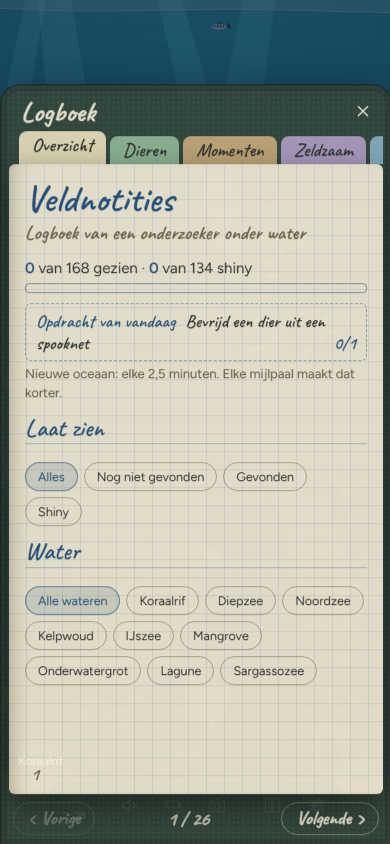
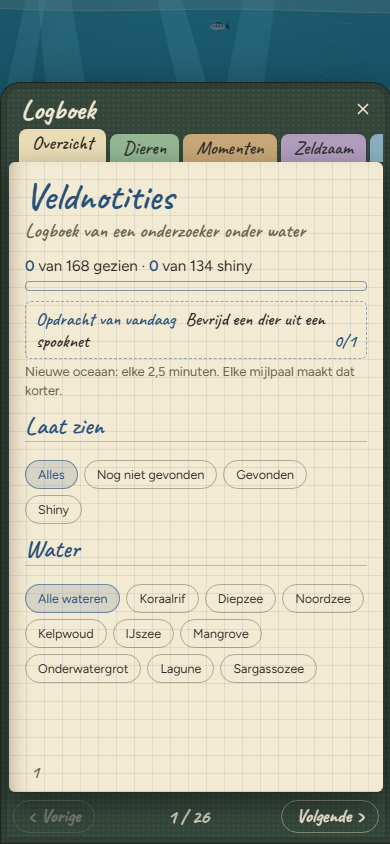
Aquarium: schakelaar Alles shiny (telt niet voor het logboek, gaat mee in de code) en knop Dieren zonder shiny

Changed region(s): [[0.0308, 0.0924, 0.9846, 0.8318], [0.0308, 0.8934, 0.9846, 1.0]]

diff --git a/index.html b/index.html
@@ -871,7 +871,7 @@
   // shinies are twice as easy to find as the base table above (it used to be five times: they had become too common)
   const SHINY_EASE = 2;
   for (const k in SHINY_N) SHINY_N[k] = Math.max(50, Math.round(SHINY_N[k] / SHINY_EASE));
-  const shinyChance = key => 1 / (SHINY_N[key] || 200);
+  const shinyChance = key => aquarium && aquarium.shiny ? 1 : 1 / (SHINY_N[key] || 200);
   const SHINY_KEYS = ["fish", "lantern", "jelly", "crab", "starfish", "urchin", "octopus", "ray", "eels", "seahorse", "puffer", "angler",
     "squid", "hermit", "slugs", "comb", "otters", "seal", "penguins", "clown", "mantis", "archer", "cleaners", "grouper", "flyingfish",
     "humpback", "turtle", "manta", "dolphins", "swordfish", "narwhal", "mermaid",
@@ -1665,7 +1665,7 @@
   function seedFromHash() {
     const h = (location.hash || "").slice(1);
     const aq = parseAq(h);
-    if (aq) { aquarium = { water: aq.water, set: aq.set }; return aq.seed; }
+    if (aq) { aquarium = { water: aq.water, set: aq.set, shiny: aq.shiny }; return aq.seed; }
     const m = /^(\d{1,10})$/.exec(h);
     if (m) { aquarium = null; return Number(m[1]); }
     return null;
@@ -6374,7 +6374,8 @@
       if (!isFinite(x) || !isFinite(y) || !isFinite(e.r)) continue; // a zero-size pane can give odd positions
       if (x < -60 || x > W + 60 || y < -60 || y > H + 60) continue;
       // First shiny reward: a little bell the moment a shiny comes into view
-      if (!e.rang && !e.told && rewards.has("s1") && x > 0 && x < W && y > 0 && y < H) {
+      const allShiny = !!(aquarium && aquarium.shiny);
+      if (!e.rang && !e.told && !allShiny && rewards.has("s1") && x > 0 && x < W && y > 0 && y < H) {
         e.rang = true;
         try { tone({ type: "sine", freqs: [[1760, 0], [2349, 0.12]], dur: 0.9, gain: 0.05, attack: 0.005, release: 0.8, verb: 0.9 }); } catch (err) {}
         toast(L("Er klinkt een belletje: er glinstert iets in de buurt...", "A little bell rings: something glitters nearby..."));
@@ -6383,6 +6384,7 @@
       if (rewards.has("s15")) {
         if (e.lx === undefined || Math.hypot(x - e.lx, y - e.ly) > 6 * u) { e.lx = x; e.ly = y; shinyTrail.push({ x, y, a: 1, ph: Math.random() * TAU }); }
       }
+      if (!e.told && allShiny) e.told = true;
       if (!e.told && lit(x, y, e.r)) {
         // the first time it swims into view: a chime, and a note in the logbook
         e.told = true;
@@ -12078,7 +12080,7 @@
   function openCode(raw) {
     const str = raw.trim().replace(/^.*#/, "").toLowerCase();
     const aq = parseAq(str);
-    if (aq) { aquarium = { water: aq.water, set: aq.set }; aqDraft = null; newVariant(aq.seed, true); return true; }
+    if (aq) { aquarium = { water: aq.water, set: aq.set, shiny: aq.shiny }; aqDraft = null; newVariant(aq.seed, true); return true; }
     if (/^\d{1,10}$/.test(str)) { aquarium = null; aqDraft = null; newVariant(Number(str), true); return true; }
     return false;
   }
@@ -12121,7 +12123,7 @@
     for (const v of S.visitorPool) if (VIS_KEYS.includes(v)) set.add(v);
     for (const r of S.rares) set.add(r);
     if (S.flyers && S.flyers.enabled) set.add("flyingfish");
-    return { water: S.waterIndex, set };
+    return { water: S.waterIndex, set, shiny: !!(aquarium && aquarium.shiny) };
   }
 
   function aquariumHTML() {
@@ -12129,7 +12131,9 @@
     let html = `<p class="sum">${L("Kies zelf wat er in je oceaan komt. Op een smal scherm passen niet alle grote dingen naast elkaar.", "Choose what goes into your ocean. On a narrow screen not all large things fit side by side.")}</p><h3>${L("Water", "Water")}</h3><div class="chips">`;
     html += WATERS.map((w, i) => `<button type="button" class="chip pick ${aqDraft.water === i ? "on" : ""}" data-water="${i}" aria-pressed="${aqDraft.water === i}">${nm("w:" + w.name)}</button>`).join("") + `</div>`;
     html += `<p class="sum">${L("Dieren en andere vondsten kun je pas kiezen als ze in je logboek staan.", "Animals and other finds can only be chosen once they are in your logbook.")}</p>
-      <div class="row"><button type="button" id="aqAll">${L("Alles selecteren", "Select all")}</button><button type="button" id="aqNone">${L("Alles deselecteren", "Deselect all")}</button></div>`;
+      <div class="row"><button type="button" id="aqAll">${L("Alles selecteren", "Select all")}</button><button type="button" id="aqNone">${L("Alles deselecteren", "Deselect all")}</button><button type="button" id="aqNoShiny">${L("Dieren zonder shiny", "Animals without a shiny")}</button></div>
+      <div class="row"><button type="button" id="aqShiny" class="switch" role="switch" aria-checked="${!!aqDraft.shiny}"><span class="track"></span>${L("Alles shiny", "Everything shiny")}</button></div>
+      <p class="sum">${L("Met Alles shiny is elk dier shiny. Die shiny's tellen niet mee voor je logboek.", "With Everything shiny every animal is shiny. Those shinies do not count for your logbook.")}</p>`;
     for (const [title, keys] of AQ_GROUPS) {
       html += `<h3>${groupName(title)}</h3><div class="chips">` + keys.map(k => aqOpen(k)
         ? `<button type="button" class="chip pick ${aqDraft.set.has(k) ? "on" : ""}" data-key="${k}" aria-pressed="${aqDraft.set.has(k)}">${nm(k)}</button>`
@@ -12212,22 +12216,31 @@
     else if (b.dataset.key) { const k = b.dataset.key; if (!aqOpen(k)) return; if (aqDraft.set.has(k)) aqDraft.set.delete(k); else aqDraft.set.add(k); renderMake(); }
     else if (b.id === "aqAll") { for (const [, keys] of AQ_GROUPS) for (const k of keys) if (aqOpen(k)) aqDraft.set.add(k); renderMake(); }
     else if (b.id === "aqNone") { aqDraft.set.clear(); renderMake(); }
-    else if (b.id === "aqBuild") { aquarium = { water: aqDraft.water, set: new Set(aqDraft.set) }; newVariant(seed, true); renderMake(); toast(L("Je aquarium is gebouwd", "Your aquarium has been built")); }
+    else if (b.id === "aqShiny") { aqDraft.shiny = !aqDraft.shiny; renderMake(); }
+    else if (b.id === "aqNoShiny") {
+      // only the animals you have seen whose shiny is not in your logbook yet
+      const want = AQ_GROUPS.flatMap(([, keys]) => keys).filter(k => SHINY_KEYS.includes(k) && aqOpen(k) && !logbook.has("shiny:" + k));
+      for (const k of [...aqDraft.set]) if (SHINY_KEYS.includes(k)) aqDraft.set.delete(k);
+      for (const k of want) aqDraft.set.add(k);
+      toast(want.length ? L(`${want.length} dieren gekozen waarvan je de shiny nog mist`, `${want.length} animals chosen whose shiny you are still missing`) : L("Je hebt van alle geziene dieren de shiny al", "You already have the shiny of every animal you have seen"));
+      renderMake();
+    }
+    else if (b.id === "aqBuild") { aquarium = { water: aqDraft.water, set: new Set(aqDraft.set), shiny: !!aqDraft.shiny }; newVariant(seed, true); renderMake(); toast(L("Je aquarium is gebouwd", "Your aquarium has been built")); }
     else if (b.id === "aqRandom") { aquarium = null; aqDraft = null; newVariant(seed, true); renderMake(); }
   });
 
   function aqCode() {
     let m = 0n;
     AQ_ALL.forEach((k, i) => { if (aquarium.set.has(k)) m |= 1n << BigInt(i); });
-    return `aq-${aquarium.water}-${seed.toString(36)}-${m.toString(36)}`;
+    return `aq-${aquarium.water}-${seed.toString(36)}-${m.toString(36)}${aquarium.shiny ? "-s" : ""}`;
   }
 
   function parseAq(str) {
-    const mm = /^aq-(\d)-([0-9a-z]+)-([0-9a-z]+)$/.exec(str);
+    const mm = /^aq-(\d)-([0-9a-z]+)-([0-9a-z]+)(-s)?$/.exec(str);
     if (!mm) return null;
     let m = 0n;
     for (const ch of mm[3]) m = m * 36n + BigInt(parseInt(ch, 36));
-    return { water: Math.min(WATERS.length - 1, Number(mm[1])), set: new Set(AQ_ALL.filter((k, i) => !RETIRED.has(k) && (m >> BigInt(i)) & 1n)), seed: parseInt(mm[2], 36) };
+    return { water: Math.min(WATERS.length - 1, Number(mm[1])), set: new Set(AQ_ALL.filter((k, i) => !RETIRED.has(k) && (m >> BigInt(i)) & 1n)), seed: parseInt(mm[2], 36), shiny: !!mm[4] };
   }
 
   let polaroidCanvas = null;
@@ -13262,7 +13275,7 @@
       bar.append(text, btn);
       document.body.appendChild(bar);
     });
-    addEventListener("load", () => navigator.serviceWorker.register("sw.js?v=73").catch(() => {}));
+    addEventListener("load", () => navigator.serviceWorker.register("sw.js?v=74").catch(() => {}));
   }
 </script>
 </body>

diff --git a/src/14-logbook-and-menu.js b/src/14-logbook-and-menu.js
@@ -555,7 +555,7 @@
   function openCode(raw) {
     const str = raw.trim().replace(/^.*#/, "").toLowerCase();
     const aq = parseAq(str);
-    if (aq) { aquarium = { water: aq.water, set: aq.set }; aqDraft = null; newVariant(aq.seed, true); return true; }
+    if (aq) { aquarium = { water: aq.water, set: aq.set, shiny: aq.shiny }; aqDraft = null; newVariant(aq.seed, true); return true; }
     if (/^\d{1,10}$/.test(str)) { aquarium = null; aqDraft = null; newVariant(Number(str), true); return true; }
     return false;
   }
@@ -598,7 +598,7 @@
     for (const v of S.visitorPool) if (VIS_KEYS.includes(v)) set.add(v);
     for (const r of S.rares) set.add(r);
     if (S.flyers && S.flyers.enabled) set.add("flyingfish");
-    return { water: S.waterIndex, set };
+    return { water: S.waterIndex, set, shiny: !!(aquarium && aquarium.shiny) };
   }
 
   function aquariumHTML() {
@@ -606,7 +606,9 @@
     let html = `<p class="sum">${L("Kies zelf wat er in je oceaan komt. Op een smal scherm passen niet alle grote dingen naast elkaar.", "Choose what goes into your ocean. On a narrow screen not all large things fit side by side.")}</p><h3>${L("Water", "Water")}</h3><div class="chips">`;
     html += WATERS.map((w, i) => `<button type="button" class="chip pick ${aqDraft.water === i ? "on" : ""}" data-water="${i}" aria-pressed="${aqDraft.water === i}">${nm("w:" + w.name)}</button>`).join("") + `</div>`;
     html += `<p class="sum">${L("Dieren en andere vondsten kun je pas kiezen als ze in je logboek staan.", "Animals and other finds can only be chosen once they are in your logbook.")}</p>
-      <div class="row"><button type="button" id="aqAll">${L("Alles selecteren", "Select all")}</button><button type="button" id="aqNone">${L("Alles deselecteren", "Deselect all")}</button></div>`;
+      <div class="row"><button type="button" id="aqAll">${L("Alles selecteren", "Select all")}</button><button type="button" id="aqNone">${L("Alles deselecteren", "Deselect all")}</button><button type="button" id="aqNoShiny">${L("Dieren zonder shiny", "Animals without a shiny")}</button></div>
+      <div class="row"><button type="button" id="aqShiny" class="switch" role="switch" aria-checked="${!!aqDraft.shiny}"><span class="track"></span>${L("Alles shiny", "Everything shiny")}</button></div>
+      <p class="sum">${L("Met Alles shiny is elk dier shiny. Die shiny's tellen niet mee voor je logboek.", "With Everything shiny every animal is shiny. Those shinies do not count for your logbook.")}</p>`;
     for (const [title, keys] of AQ_GROUPS) {
       html += `<h3>${groupName(title)}</h3><div class="chips">` + keys.map(k => aqOpen(k)
         ? `<button type="button" class="chip pick ${aqDraft.set.has(k) ? "on" : ""}" data-key="${k}" aria-pressed="${aqDraft.set.has(k)}">${nm(k)}</button>`
@@ -689,22 +691,31 @@
     else if (b.dataset.key) { const k = b.dataset.key; if (!aqOpen(k)) return; if (aqDraft.set.has(k)) aqDraft.set.delete(k); else aqDraft.set.add(k); renderMake(); }
     else if (b.id === "aqAll") { for (const [, keys] of AQ_GROUPS) for (const k of keys) if (aqOpen(k)) aqDraft.set.add(k); renderMake(); }
     else if (b.id === "aqNone") { aqDraft.set.clear(); renderMake(); }
-    else if (b.id === "aqBuild") { aquarium = { water: aqDraft.water, set: new Set(aqDraft.set) }; newVariant(seed, true); renderMake(); toast(L("Je aquarium is gebouwd", "Your aquarium has been built")); }
+    else if (b.id === "aqShiny") { aqDraft.shiny = !aqDraft.shiny; renderMake(); }
+    else if (b.id === "aqNoShiny") {
+      // only the animals you have seen whose shiny is not in your logbook yet
+      const want = AQ_GROUPS.flatMap(([, keys]) => keys).filter(k => SHINY_KEYS.includes(k) && aqOpen(k) && !logbook.has("shiny:" + k));
+      for (const k of [...aqDraft.set]) if (SHINY_KEYS.includes(k)) aqDraft.set.delete(k);
+      for (const k of want) aqDraft.set.add(k);
+      toast(want.length ? L(`${want.length} dieren gekozen waarvan je de shiny nog mist`, `${want.length} animals chosen whose shiny you are still missing`) : L("Je hebt van alle geziene dieren de shiny al", "You already have the shiny of every animal you have seen"));
+      renderMake();
+    }
+    else if (b.id === "aqBuild") { aquarium = { water: aqDraft.water, set: new Set(aqDraft.set), shiny: !!aqDraft.shiny }; newVariant(seed, true); renderMake(); toast(L("Je aquarium is gebouwd", "Your aquarium has been built")); }
     else if (b.id === "aqRandom") { aquarium = null; aqDraft = null; newVariant(seed, true); renderMake(); }
   });
 
   function aqCode() {
     let m = 0n;
     AQ_ALL.forEach((k, i) => { if (aquarium.set.has(k)) m |= 1n << BigInt(i); });
-    return `aq-${aquarium.water}-${seed.toString(36)}-${m.toString(36)}`;
+    return `aq-${aquarium.water}-${seed.toString(36)}-${m.toString(36)}${aquarium.shiny ? "-s" : ""}`;
   }
 
   function parseAq(str) {
-    const mm = /^aq-(\d)-([0-9a-z]+)-([0-9a-z]+)$/.exec(str);
+    const mm = /^aq-(\d)-([0-9a-z]+)-([0-9a-z]+)(-s)?$/.exec(str);
     if (!mm) return null;
     let m = 0n;
     for (const ch of mm[3]) m = m * 36n + BigInt(parseInt(ch, 36));
-    return { water: Math.min(WATERS.length - 1, Number(mm[1])), set: new Set(AQ_ALL.filter((k, i) => !RETIRED.has(k) && (m >> BigInt(i)) & 1n)), seed: parseInt(mm[2], 36) };
+    return { water: Math.min(WATERS.length - 1, Number(mm[1])), set: new Set(AQ_ALL.filter((k, i) => !RETIRED.has(k) && (m >> BigInt(i)) & 1n)), seed: parseInt(mm[2], 36), shiny: !!mm[4] };
   }
 
   let polaroidCanvas = null;

diff --git a/src/10-shiny.js b/src/10-shiny.js
@@ -472,7 +472,8 @@
       if (!isFinite(x) || !isFinite(y) || !isFinite(e.r)) continue; // a zero-size pane can give odd positions
       if (x < -60 || x > W + 60 || y < -60 || y > H + 60) continue;
       // First shiny reward: a little bell the moment a shiny comes into view
-      if (!e.rang && !e.told && rewards.has("s1") && x > 0 && x < W && y > 0 && y < H) {
+      const allShiny = !!(aquarium && aquarium.shiny);
+      if (!e.rang && !e.told && !allShiny && rewards.has("s1") && x > 0 && x < W && y > 0 && y < H) {
         e.rang = true;
         try { tone({ type: "sine", freqs: [[1760, 0], [2349, 0.12]], dur: 0.9, gain: 0.05, attack: 0.005, release: 0.8, verb: 0.9 }); } catch (err) {}
         toast(L("Er klinkt een belletje: er glinstert iets in de buurt...", "A little bell rings: something glitters nearby..."));
@@ -481,6 +482,7 @@
       if (rewards.has("s15")) {
         if (e.lx === undefined || Math.hypot(x - e.lx, y - e.ly) > 6 * u) { e.lx = x; e.ly = y; shinyTrail.push({ x, y, a: 1, ph: Math.random() * TAU }); }
       }
+      if (!e.told && allShiny) e.told = true;
       if (!e.told && lit(x, y, e.r)) {
         // the first time it swims into view: a chime, and a note in the logbook
         e.told = true;

diff --git a/src/01-basis.js b/src/01-basis.js
@@ -366,7 +366,7 @@
   // shinies are twice as easy to find as the base table above (it used to be five times: they had become too common)
   const SHINY_EASE = 2;
   for (const k in SHINY_N) SHINY_N[k] = Math.max(50, Math.round(SHINY_N[k] / SHINY_EASE));
-  const shinyChance = key => 1 / (SHINY_N[key] || 200);
+  const shinyChance = key => aquarium && aquarium.shiny ? 1 : 1 / (SHINY_N[key] || 200);
   const SHINY_KEYS = ["fish", "lantern", "jelly", "crab", "starfish", "urchin", "octopus", "ray", "eels", "seahorse", "puffer", "angler",
     "squid", "hermit", "slugs", "comb", "otters", "seal", "penguins", "clown", "mantis", "archer", "cleaners", "grouper", "flyingfish",
     "humpback", "turtle", "manta", "dolphins", "swordfish", "narwhal", "mermaid",

diff --git a/src/02-scene.js b/src/02-scene.js
@@ -453,7 +453,7 @@
   function seedFromHash() {
     const h = (location.hash || "").slice(1);
     const aq = parseAq(h);
-    if (aq) { aquarium = { water: aq.water, set: aq.set }; return aq.seed; }
+    if (aq) { aquarium = { water: aq.water, set: aq.set, shiny: aq.shiny }; return aq.seed; }
     const m = /^(\d{1,10})$/.exec(h);
     if (m) { aquarium = null; return Number(m[1]); }
     return null;

diff --git a/sw.js b/sw.js
@@ -1,5 +1,5 @@
 // Service worker: maakt de oceaan installeerbaar en speelbaar zonder internet.
-const VERSION = "v73";
+const VERSION = "v74";
 const SHELL = `oceaan-shell-${VERSION}`;
 const FONTS = "oceaan-fonts-1";
 const SHELL_FILES = ["./", "index.html", "manifest.webmanifest", "icons/icon-192.png", "icons/icon-512.png", "icons/apple-touch-icon.png"];
